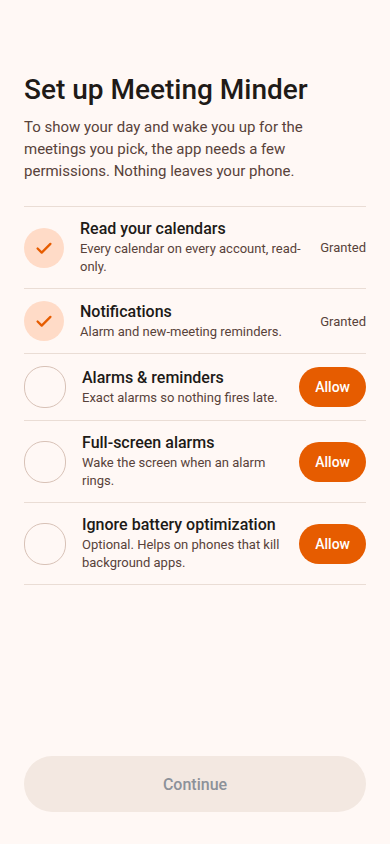
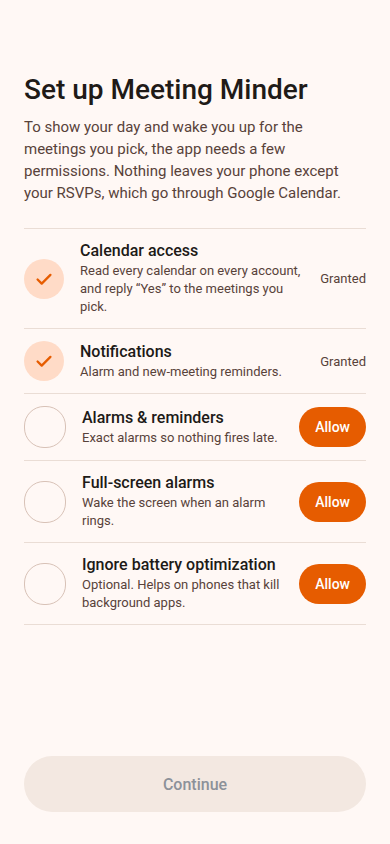
Spec: RSVP "Yes, going" when setting alarms
Adds section 4.6: setting alarms accepts each chosen meeting via the
user's own Attendees row (or an exception insert for one instance of
a recurring meeting), one event at a time, never a series, never
reversed. Threads WRITE_CALENDAR through permissions, onboarding, the
data model, the store actions and the work plan (new PR-8b), and
updates the onboarding render copy.

Claude-Session: https://claude.ai/code/session_01SUWGyzG7NyANyHmokVVbXB

diff --git a/TODO.md b/TODO.md
@@ -14,7 +14,9 @@ partner a "here's when I'm busy" text.** During the day it watches the calendar 
 re-send the schedule when meetings appear or move.
 
 - Reads **every calendar on every account** through the Android Calendar Provider (Google
-  Calendar syncs into it). Read-only. No network permission — the app never talks to a server.
+  Calendar syncs into it). The only thing it ever writes back is your **RSVP**: setting alarms
+  marks each chosen meeting "Yes, going" so Google Calendar renders it accepted and the organizer
+  gets a response (§4.6). No network permission — the app never talks to a server itself.
 - Main screen: a Google-Calendar-style **single-day itinerary** (timeline with hour grid,
   proportional event heights, overlapping events side by side) with **horizontal swiping between
   days**.
@@ -33,7 +35,8 @@ Not on Google Play; distributed as APKs from GitHub releases like headache-track
 to use `USE_EXACT_ALARM` and full-screen intents without Play policy review.
 
 ### Non-goals (v1)
-- Writing to the calendar (RSVP, creating events). Long-press opens the event in the calendar app instead.
+- Editing the calendar beyond RSVP (creating/moving events, declining, responding to a whole
+  series). Long-press opens the event in the calendar app for anything else.
 - Multiple *apps* as sources. Calendar Provider only (Google Calendar, Samsung Calendar, Outlook w/ sync all land there).
 - Week/month views, a settings-heavy UI, cloud sync, widgets. (Widget is a plausible v2.)
 - Tablet/foldable-specific layouts beyond "don't look broken."
@@ -42,7 +45,7 @@ to use `USE_EXACT_ALARM` and full-screen intents without Play policy review.
 
 | # | Render | Screen | Notes |
 |---|--------|--------|-------|
-| 1 | ![](docs/renders/1-onboarding.png) | **Onboarding / permissions** | Checklist of grants; rows flip to "Granted" as they come back. Continue enabled once required ones are granted. Reachable later from overflow → "Permissions". |
+| 1 | ![](docs/renders/1-onboarding.png) | **Onboarding / permissions** | Calendar row covers read and RSVP write (one dialog). Checklist of grants; rows flip to "Granted" as they come back. Continue enabled once required ones are granted. Reachable later from overflow → "Permissions". |
 | 2 | ![](docs/renders/2-day-view-selecting.png) | **Day view, selecting** | Top bar: date + subtitle ("3 meetings · 2 selected"), Today button, overflow. All-day row. Timeline. Outlined chip = not selected, filled chip + check = selected, dashed + strikethrough = declined. Red now-line on today. FAB "Set alarms (N)". |
 | 3 | ![](docs/renders/3-alarms-set.png) | **Alarms set** | Selected chips show a bell + the alarm time. Subtitle "3 alarms set · not shared yet". Snackbar confirms. FAB becomes primary-filled "Share schedule". |
 | 4 | ![](docs/renders/4-share-schedule.png) | **Share sheet** | System sharesheet; our text is plain, times only. |
@@ -178,14 +181,15 @@ data class DayPlan(
 sealed interface UpdateStateAction : Action { /* SetPermissions, SetCalendars, SetDayEvents,
     SetDayPlans, SetSettledDate, SetRinging, SetScheduleChanges, ShowMessage, ClearMessage */ }
 sealed interface AsyncAction : Action { /* PermissionsMaybeChanged, LoadDay(date),
-    CalendarContentChanged, ToggleEvent(date, key), SetAlarms(date), ShareDay(date),
+    CalendarContentChanged, ToggleEvent(date, key), SetAlarms(date), RsvpAccepted(key, result),
+    ShareDay(date),
     SharedDay(date), AlarmFired(alarmId), SnoozeAlarm, DismissAlarm, BootCompleted,
     TimeChanged, RunChangeCheck(reason) */ }
 ```
 
 Side effects (one file each under `store/sideeffects/`): `ObserveDayPlans`, `LoadCalendars`,
 `LoadDayEvents` (`transformLatest` on `LoadDay`/`CalendarContentChanged`), `ToggleEvent`,
-`ScheduleAlarms`, `ShareSchedule`, `AlarmRinging`, `ChangeDetection`, `CalendarObserver`
+`ScheduleAlarms`, `RsvpAccept`, `ShareSchedule`, `AlarmRinging`, `ChangeDetection`, `CalendarObserver`
 (registers the `ContentObserver` on `SubscriberStatusChanged(true)`).
 
 ### 3.3 Package map
@@ -237,6 +241,10 @@ data class CalendarEvent(
     val hasAttendeeData: Boolean,         // Instances.HAS_ATTENDEE_DATA; false = self-only data (Exchange, shared cals)
     val humanAttendees: Int,              // Attendees rows excluding TYPE_RESOURCE; 0 when hasAttendeeData is false
     val availability: Availability,       // BUSY / FREE
+    val selfAttendeeId: Long?,            // our own Attendees row (email == calendar OWNER_ACCOUNT), null if none
+    val isRecurringInstance: Boolean,     // RRULE/RDATE set and not already an exception
+    val calendarAccessLevel: Int,         // Calendars.CALENDAR_ACCESS_LEVEL
+    val organizerCanRespond: Boolean,     // Calendars.CAN_ORGANIZER_RESPOND
 ) {
     /** THE definition of "meeting". Every count, share line and change-detection rule uses this. */
     val isMeeting: Boolean
@@ -266,7 +274,10 @@ Room (`MeetingMinderDatabase`, `exportSchema = true` this time so migrations are
 ```
 day_plan            (date TEXT PK, alarms_set_at INTEGER?, shared_at INTEGER?, shared_snapshot TEXT? /*json BusyRange[]*/)
 selected_event      (date TEXT, event_id INTEGER, begin_millis INTEGER, title TEXT, end_millis INTEGER,
-                     alarm_id INTEGER?, alarm_at INTEGER?, PK(date, event_id, begin_millis))
+                     alarm_id INTEGER?, alarm_at INTEGER?,
+                     rsvp_state TEXT /*NOT_APPLICABLE|PENDING|ACCEPTED_LOCALLY|SYNCED|FAILED*/,
+                     rsvp_event_id INTEGER? /*exception event id when we answered one instance*/,
+                     PK(date, event_id, begin_millis))
 scheduled_alarm     (alarm_id INTEGER PK autoincrement, date TEXT, event_id, begin_millis, fire_at INTEGER,
                      title TEXT, end_millis, sound_index INTEGER, state TEXT /*SCHEDULED|FIRED|DISMISSED|SNOOZED|CANCELLED*/)
 change_snapshot     (date TEXT PK, taken_at INTEGER, events_json TEXT /* minimal per-event fingerprint list */)
@@ -357,9 +368,10 @@ is the default M3 ramp with bold titles like podcast-hacker.
 
 ### 4.1 Reading the calendar (all calendars, all accounts)
 
-Only `READ_CALENDAR` is needed (never `WRITE_CALENDAR`). One runtime grant covers every calendar
-from every account on the device: multiple Google accounts, Exchange, Samsung, `LOCAL`. Nothing
-in Android 14–17 changed calendar access.
+`READ_CALENDAR` for everything in this section and `WRITE_CALENDAR` only for the RSVP write in
+§4.6. Both live in the `CALENDAR` permission group, so requesting them together shows **one**
+runtime dialog. One grant covers every calendar from every account on the device: multiple
+Google accounts, Exchange, Samsung, `LOCAL`. Nothing in Android 14–17 changed calendar access.
 
 **Calendars** (`CalendarContract.Calendars.CONTENT_URI`): one row per calendar per account.
 Columns we keep: `_ID`, `ACCOUNT_NAME`, `ACCOUNT_TYPE`, `CALENDAR_DISPLAY_NAME`, `CALENDAR_COLOR`,
@@ -550,6 +562,7 @@ Full manifest permission set (this is what `expected-permissions.txt` will pin):
 
 ```
 android.permission.READ_CALENDAR
+android.permission.WRITE_CALENDAR                (RSVP only, §4.6)
 android.permission.POST_NOTIFICATIONS
 android.permission.USE_EXACT_ALARM
 android.permission.SCHEDULE_EXACT_ALARM        (maxSdkVersion 32)
@@ -576,7 +589,8 @@ temporary allowlist that permits starting a foreground service from the backgrou
   the day view.
 - `scheduled_alarm` is the source of truth. `SetAlarms(date)` reconciles the table against the
   current selection: cancel rows for deselected events, insert+schedule for new ones, keep
-  unchanged ones. `RescheduleReceiver` re-arms every `SCHEDULED` row from Room on
+  unchanged ones. The same action fans out one `RsvpAccept` per newly-armed event (§4.6);
+  alarm scheduling never waits on the RSVP. `RescheduleReceiver` re-arms every `SCHEDULED` row from Room on
   `BOOT_COMPLETED`, `MY_PACKAGE_REPLACED`, `TIME_SET`, `TIMEZONE_CHANGED`, and on the exact-alarm
   permission-state broadcast. Alarms are cancelled by the OS on shutdown, so the boot path is
   mandatory. No direct-boot handling (the calendar provider isn't readable before first unlock).
@@ -666,7 +680,7 @@ deep links return no result. Required rows block "Continue"; optional rows don't
 
 | # | Row | How we check | How we request | Required |
 |---|-----|--------------|----------------|----------|
-| 1 | Read your calendars | `checkSelfPermission(READ_CALENDAR)` | runtime dialog; after 2 denials → app details settings | yes |
+| 1 | Calendar access | `checkSelfPermission` for `READ_CALENDAR` **and** `WRITE_CALENDAR` | one runtime dialog for both (same group); after 2 denials → app details settings | yes |
 | 2 | Notifications | `NotificationManagerCompat.areNotificationsEnabled()` + `alarms` channel importance ≠ NONE | runtime dialog (33+); fallback `ACTION_APP_NOTIFICATION_SETTINGS` / channel settings | yes |
 | 3 | Alarms & reminders | `canScheduleExactAlarms()` | `ACTION_REQUEST_SCHEDULE_EXACT_ALARM` (only ever needed on 12/12L) | yes |
 | 4 | Full-screen alarms | `canUseFullScreenIntent()` (34+) | `ACTION_MANAGE_APP_USE_FULL_SCREEN_INTENT` | yes |
@@ -677,6 +691,69 @@ deep links return no result. Required rows block "Continue"; optional rows don't
 Onboarding is shown at first launch, whenever a required grant is missing at launch, and from
 the overflow menu. Backup/restore to a new device drops special-access grants, so the launch
 check matters.
+
+### 4.6 RSVP "Yes, going" when alarms are set
+
+Setting alarms is the moment you commit to a meeting, so the same action tells Google Calendar.
+Every event that gets an alarm is marked **accepted** on the calendar, which makes it render as
+accepted in Google Calendar and sends the organizer a response through Google's own sync. Two
+hard rules from the product side: **we only ever answer one event instance at a time** (never a
+whole recurring series, never a bulk "respond to all"), and **we never decline or un-respond on
+your behalf**; deselecting an event just cancels its alarm.
+
+**The write** (verified against AOSP `CalendarProvider2` and the AOSP/Etar calendar app):
+
+- `Events.SELF_ATTENDEE_STATUS` cannot be updated by anyone; the provider throws. The correct
+  write is to **our own row in `CalendarContract.Attendees`** (the row whose `ATTENDEE_EMAIL`
+  equals the calendar's `OWNER_ACCOUNT`), setting `ATTENDEE_STATUS = ATTENDEE_STATUS_ACCEPTED`.
+  The provider then mirrors it into `SELF_ATTENDEE_STATUS`, marks the event `DIRTY`, and Google's
+  sync adapter uploads the response on its next (usually immediate) upload sync. Offline is fine:
+  `DIRTY` persists until it syncs.
+- **One instance of a recurring meeting** is answered by inserting an exception:
+  `insert(Events.CONTENT_EXCEPTION_URI/{masterEventId}, {ORIGINAL_INSTANCE_TIME = Instances.BEGIN,
+  SELF_ATTENDEE_STATUS = ACCEPTED, STATUS = CONFIRMED})`. This is the one place
+  `SELF_ATTENDEE_STATUS` is app-writable; the provider clones the event as an exception (with
+  `ORIGINAL_ID`) and updates the cloned self-attendee row. Google syncs this as a per-instance
+  response (`originalStartTime` + the attendee's `responseStatus`), which is exactly what the
+  built-in Calendar app's "This event" choice does. If the instance is *already* an exception
+  (`ORIGINAL_ID` set, no `RRULE`) it's a plain event: update its own attendee row.
+- We keep the returned exception event id in `selected_event.rsvp_event_id` so the `EventKey`
+  normalisation in §4.1 maps the new exception back to the same selection.
+
+**When we skip** (`rsvp_state = NOT_APPLICABLE`, no write, no error shown):
+
+| Case | Signal |
+|---|---|
+| Solo block, no attendees | `selfAttendeeId == null` (the exception insert would throw "Status update WTF" with no self row, so this check is mandatory) |
+| Self-only attendee data (Exchange, some shared calendars) | `hasAttendeeData == false` |
+| You're the organizer | `isOrganizer` (Google already has you as accepted); also skipped when `organizerCanRespond == false` |
+| Calendar can't respond | `calendarAccessLevel < CAL_ACCESS_RESPOND (300)`; the provider would accept the local write and the server would reject it on sync, leaving a stuck dirty row |
+| Already accepted | `selfStatus == ACCEPTED` |
+| Invite sent to an alias | no attendee row matches `OWNER_ACCOUNT` (case-insensitive); we can't discover aliases from the provider, so this is a no-op with a subtle "couldn't RSVP" hint on the chip |
+
+**Flow**: `SetAlarms(date)` → for each newly-armed event that passes the table above, emit
+`RsvpAccept(key)` → the `RsvpAccept` side effect does the write on IO (each event its own
+transaction; failures are per event) → `RsvpAccepted(key, result)` updates `rsvp_state`. Because
+the write immediately changes `SELF_ATTENDEE_STATUS`, our own `ContentObserver` fires and the
+day reloads with the chip now showing the accepted state. Chips show a small "sent" tick once
+`rsvp_state == ACCEPTED_LOCALLY`; a later background diff (§4.3) that sees `Events.DIRTY == 0`
+promotes it to `SYNCED`. We don't call `ContentResolver.requestSync` (the provider's own change
+notification already nudges Google's sync adapter); it's a one-liner to add if sync proves lazy.
+
+**Reversal**: none, by design. Deselecting cancels the alarm and leaves the RSVP as is. Declining
+is a decision for Google Calendar, not this app. (If we ever add it, `ATTENDEE_STATUS_INVITED`
+is the "un-respond" value locally, but whether Google's sync adapter pushes `needsAction` back to
+the server is unverified; `DECLINED` is the only reversal known to sync.)
+
+**Testing**: Robolectric fake provider asserting the `update` on `Attendees.CONTENT_URI` with the
+`EVENT_ID`/`ATTENDEE_EMAIL` selection for plain events and the `insert` on
+`content://com.android.calendar/exception/{id}` with `ORIGINAL_INSTANCE_TIME` for recurring
+instances; every row of the skip table as a unit test on the pure `rsvpDecision(event)`
+function. Emulator: seed a `LOCAL` calendar (`OWNER_ACCOUNT = me@test.com`), an event with
+`ORGANIZER = boss@test.com`, `HAS_ATTENDEE_DATA = 1`, two attendee rows (me INVITED, boss
+ORGANIZER/ACCEPTED), run the flow, then check `selfAttendeeStatus == 1` and `dirty == 1` via
+`adb shell content query`. Before release, verify on a real Google account that the response
+reaches calendar.google.com for a one-off invite and for one instance of a recurring invite.
 
 ## 5. Work plan (PR-sized chunks)
 
@@ -712,8 +789,9 @@ open. Order matters where noted; PRs marked ∥ can run in parallel with their n
   `START_DAY`/`END_DAY` re-filter, batched attendees query, `EventKey` normalisation for exception
   events), `FakeCalendarRepository`. Robolectric tests against a fake `com.android.calendar`
   provider covering: timed event, recurring instance, moved occurrence (ORIGINAL_ID), all-day event
-  near midnight in a negative-offset zone, cancelled, declined, hidden calendar. `READ_CALENDAR`
-  added to the manifest and `expected-permissions.txt`.
+  near midnight in a negative-offset zone, cancelled, declined, hidden calendar. The repository
+  also exposes the self-attendee id, access level and organizer-can-respond flags that §4.6 needs.
+  `READ_CALENDAR` and `WRITE_CALENDAR` added to the manifest and `expected-permissions.txt`.
 - [ ] **PR-4: Calendar permission + minimal onboarding.** `permissions/PermissionState`,
   `PermissionChecker` (refreshed on `ON_RESUME` via `PermissionsMaybeChanged`), Onboarding screen
   with only the calendar row live and the other rows stubbed as "coming soon", routing: launch →
@@ -744,6 +822,12 @@ open. Order matters where noted; PRs marked ∥ can run in parallel with their n
   plain high-priority notification. Permissions: exact alarm (see §4.4), `RECEIVE_BOOT_COMPLETED`.
   Onboarding gets the "Alarms & reminders" and "Notifications" rows for real. Unit tests for alarm
   time math and reconciliation; Robolectric `ShadowAlarmManager` test for scheduling/cancelling.
+- [ ] **PR-8b: RSVP on set-alarms.** After PR-8, ∥ with PR-9. `rsvpDecision(event)` (pure, one
+  test per row of the §4.6 skip table), `CalendarRepository.acceptInstance(key)` doing the
+  Attendees update or the exception insert, the `RsvpAccept` side effect fanned out from
+  `SetAlarms`, `rsvp_state`/`rsvp_event_id` columns, the "sent" tick and "couldn't RSVP" hint on
+  chips, Robolectric tests for both write shapes, and the emulator seeding recipe in the `verify`
+  skill. Manual check against a real Google account before this merges.
 - [ ] **PR-9: Share schedule.** ∥ with PR-8. `ScheduleTextFormatter` (pure, tested: merging,
   AM/PM elision, empty day, midnight-spanning), `ShareDay`/`SharedDay` side effects writing
   `shared_at` + `shared_snapshot`, the FAB's `Share` state (unlocked once `alarms_set_at != null`),
@@ -806,3 +890,5 @@ that depends on it):
 7. **Monitoring runs only after a share** and only until local midnight.
 8. **Lead time default 5 minutes**, snooze 2 minutes, auto-timeout 3 minutes.
 9. **Share text format** in §4.2 (merged ranges, no titles, "Free the rest of the day.").
+10. **RSVP is fire-and-forget and never reversed** (§4.6): alarms don't wait on it, deselecting
+    doesn't decline, and organizer/solo/read-only cases are silently skipped.
